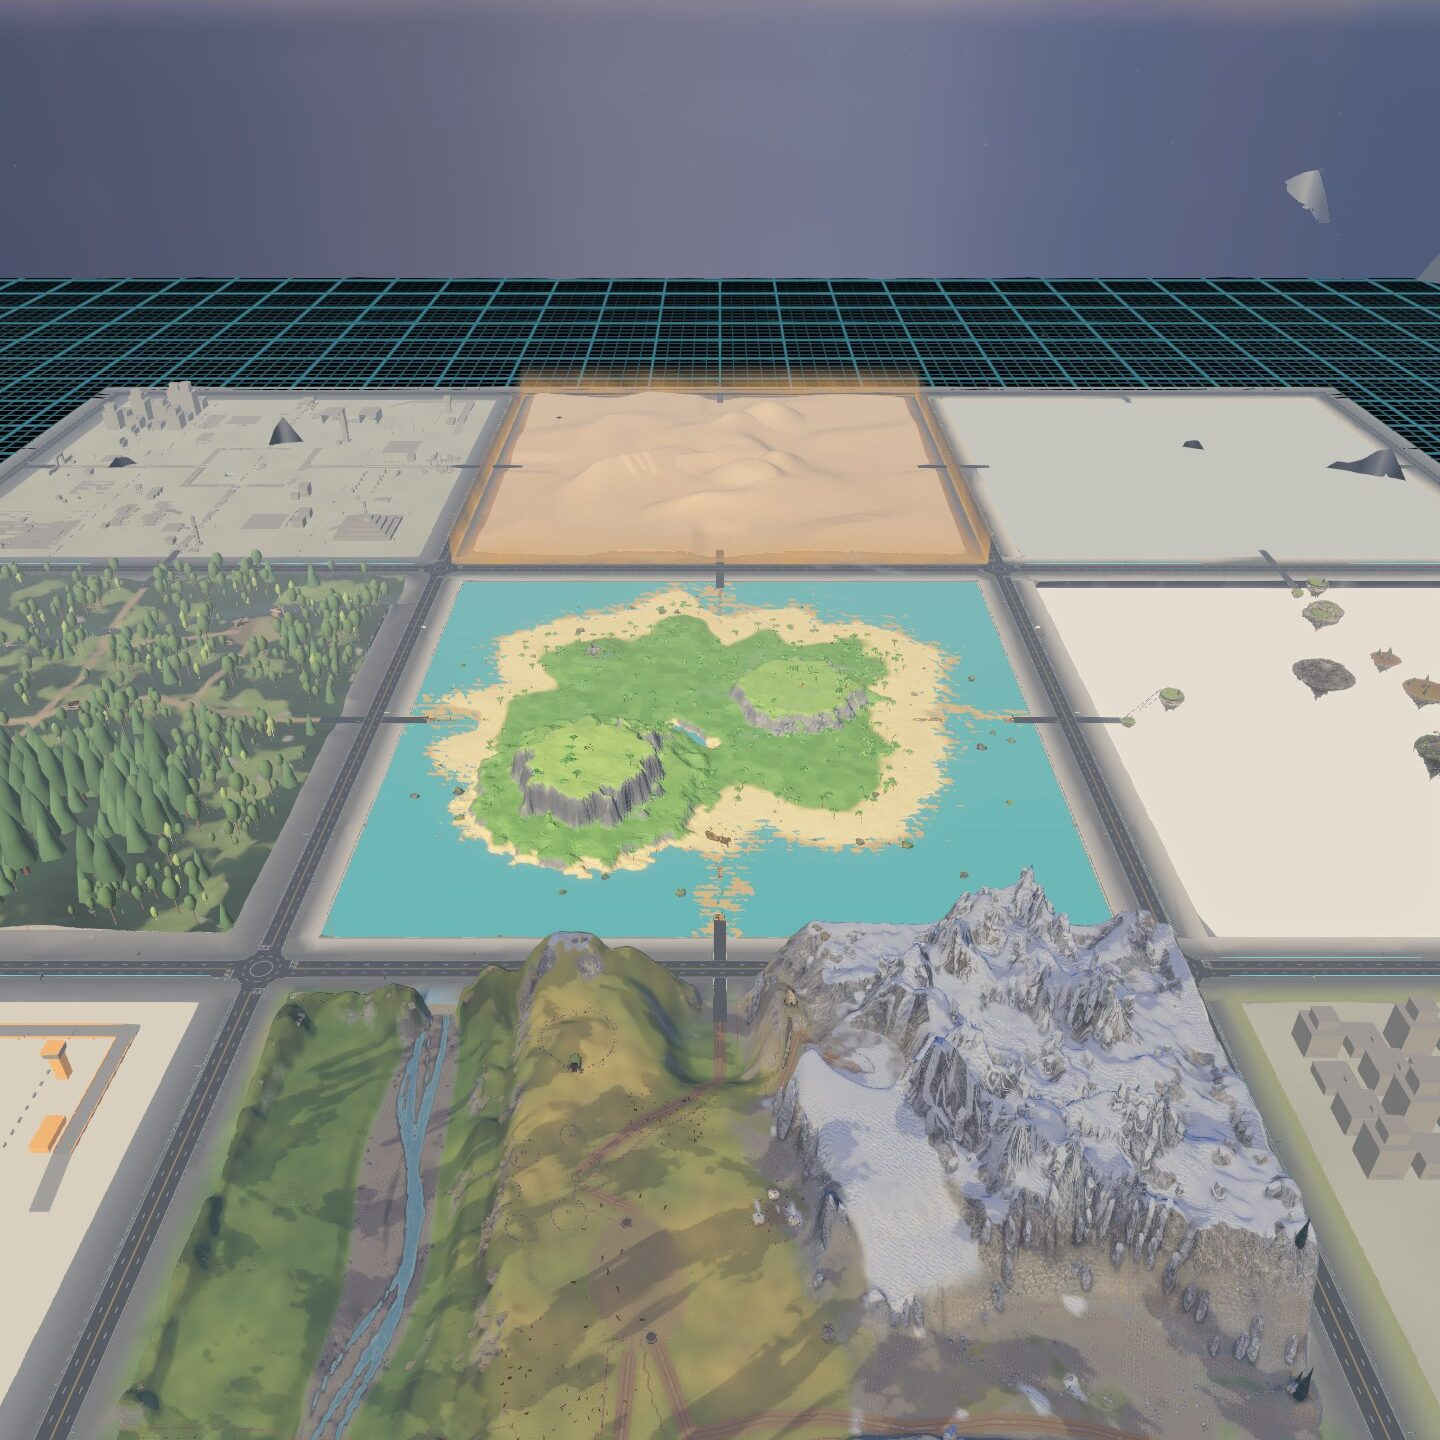
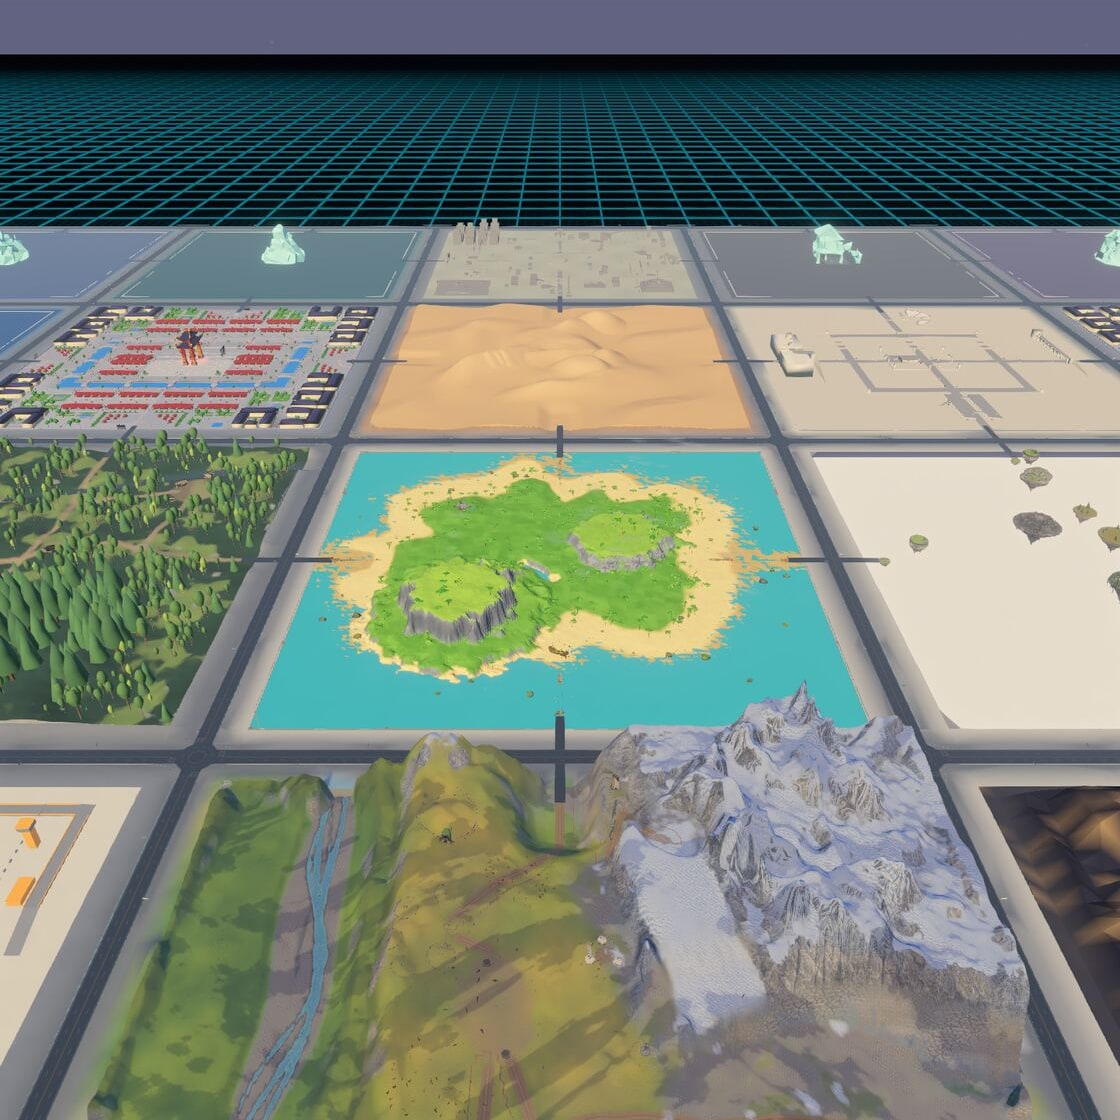
feat(title): ship approved 5x5 hero
Use the approved square and landscape retake at the existing title
paths, also used by the HTML first-paint shell. Regenerate the native
startup image with unchanged layout and status inset. Lossless PNG
compression keeps it below the prior exact byte pin.

Named typed lint and native image generation pass. The original
first-paint suite collected zero while normal preparation refused
foreign changing inputs; retain that refusal. G612 hands the cold
checks to CI. The coordinator requests an exact landed-SHA preview
and committed phone capture immediately after this source landing.

Assisted-by: Codex:gpt-6.1-sol

diff --git a/index.html b/index.html
@@ -14,7 +14,7 @@
     <link rel="apple-touch-icon" sizes="180x180" href="/apple-touch-icon.png" />
     <!-- iPhone 16/17 Pro: iOS paints this before a standalone document exists.
          Rendered from this same shell by scripts/generate-title-launch.mjs. -->
-    <link rel="apple-touch-startup-image" href="/assets/title/launch-1206x2622-e78cd1eb93eb.png" media="(device-width: 402px) and (device-height: 874px) and (-webkit-device-pixel-ratio: 3) and (orientation: portrait)" />
+    <link rel="apple-touch-startup-image" href="/assets/title/launch-1206x2622-880e3aa07fa7.png" media="(device-width: 402px) and (device-height: 874px) and (-webkit-device-pixel-ratio: 3) and (orientation: portrait)" />
     <link rel="icon" type="image/png" href="/favicon.png" />
     <link rel="manifest" href="/manifest.webmanifest" />
     <script>
